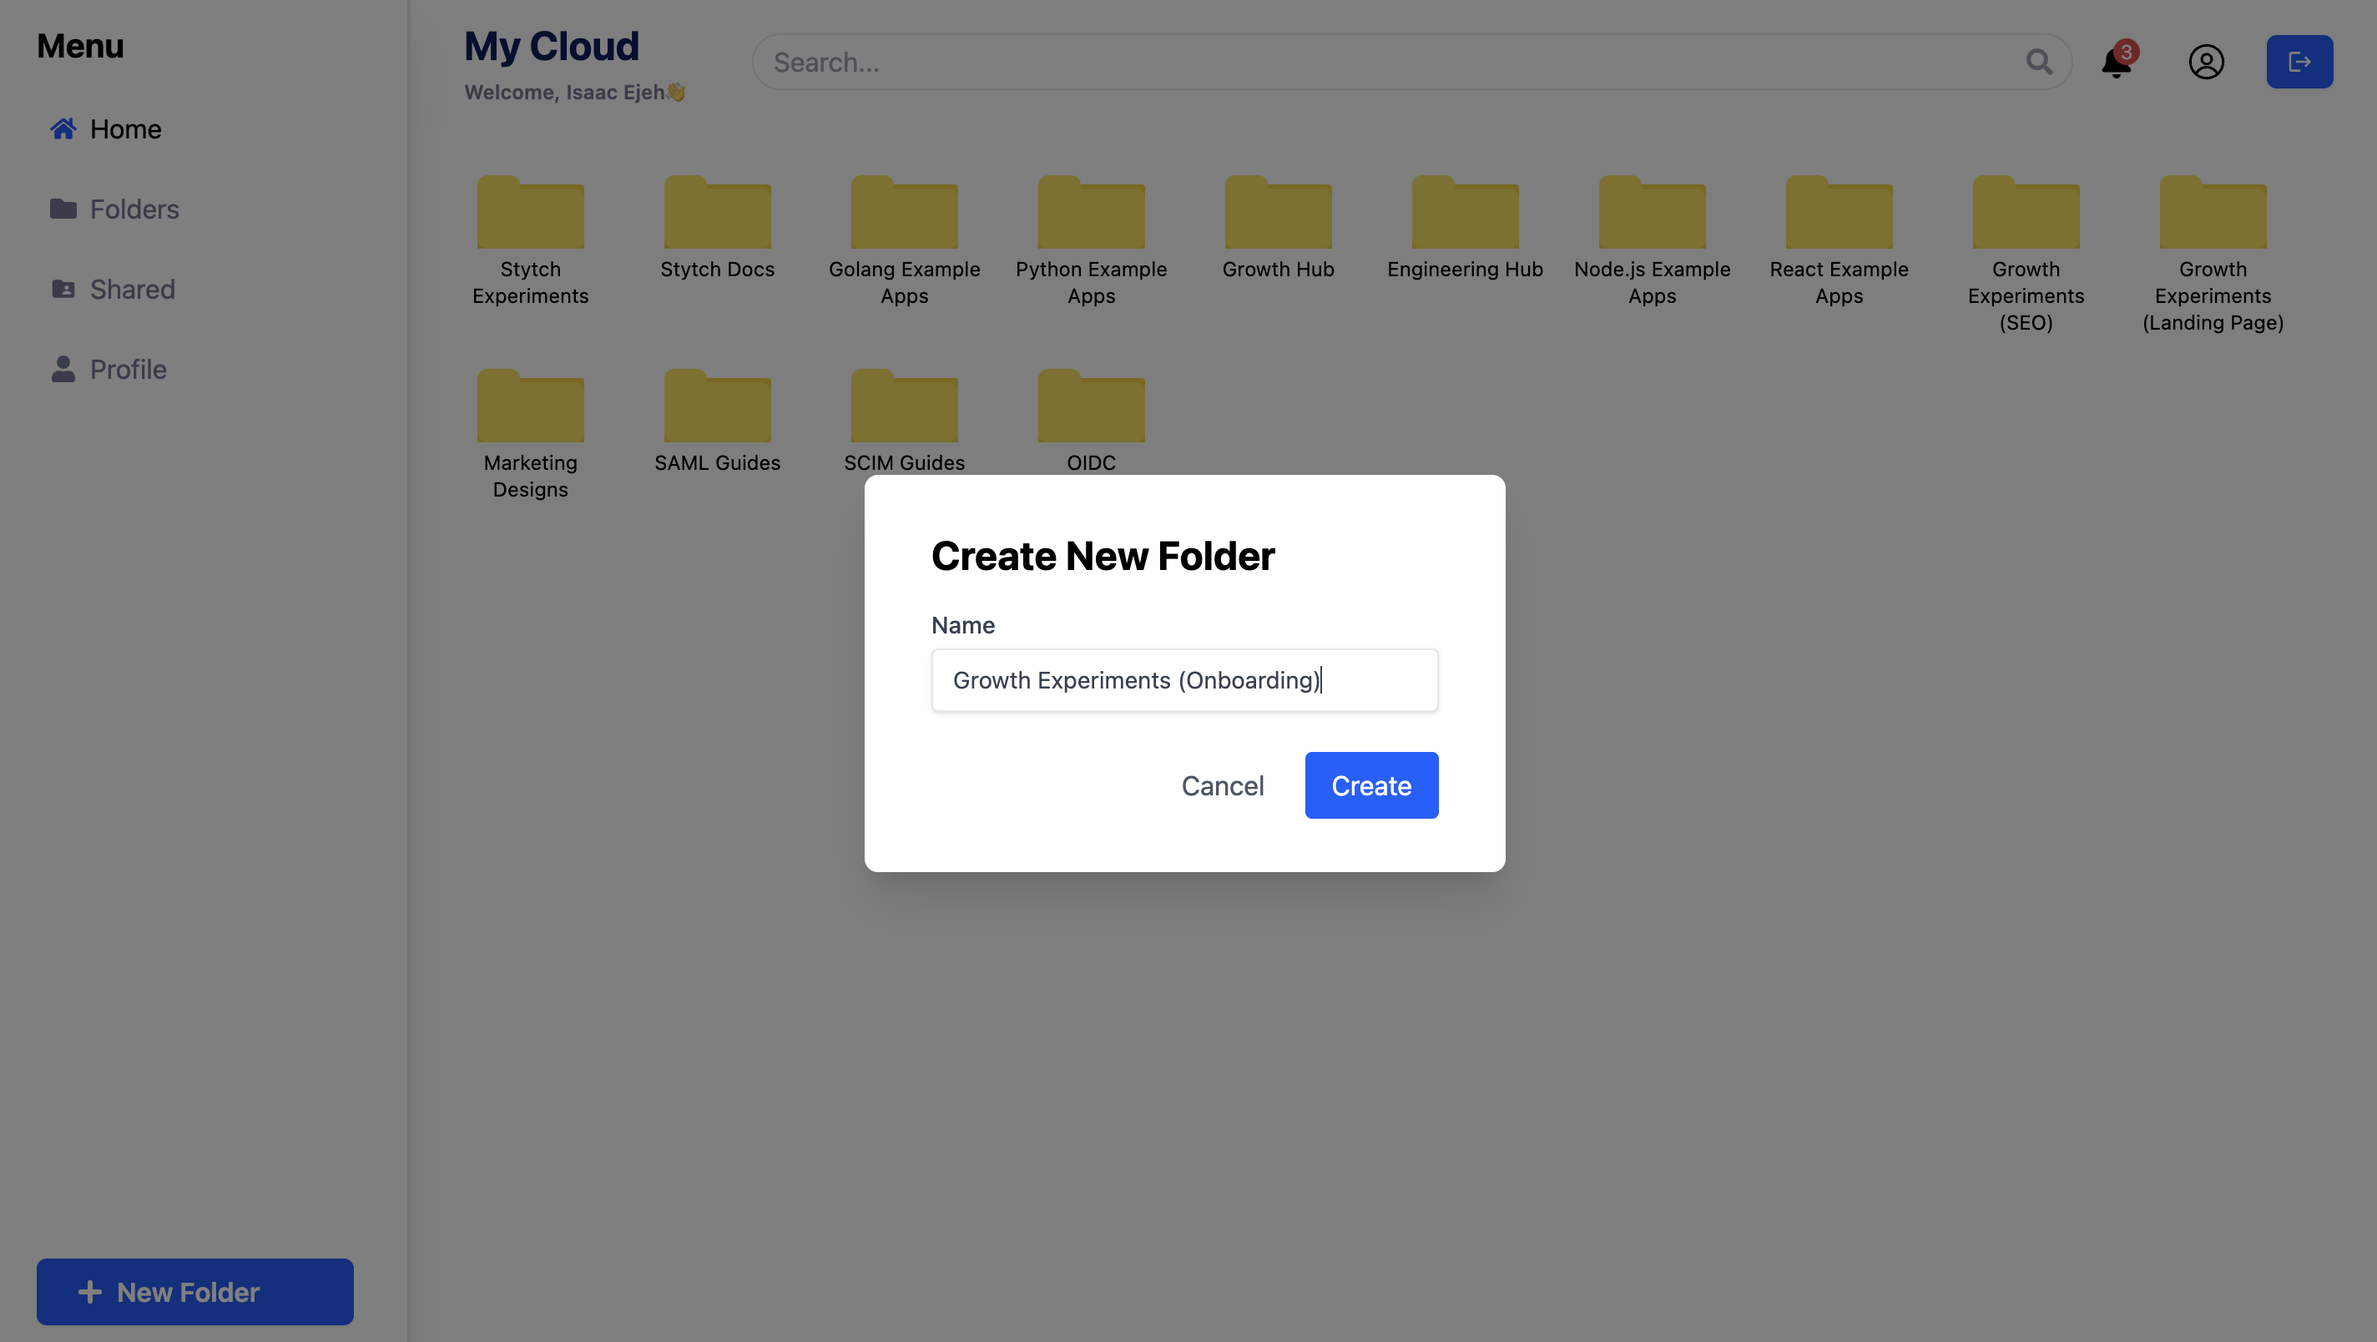
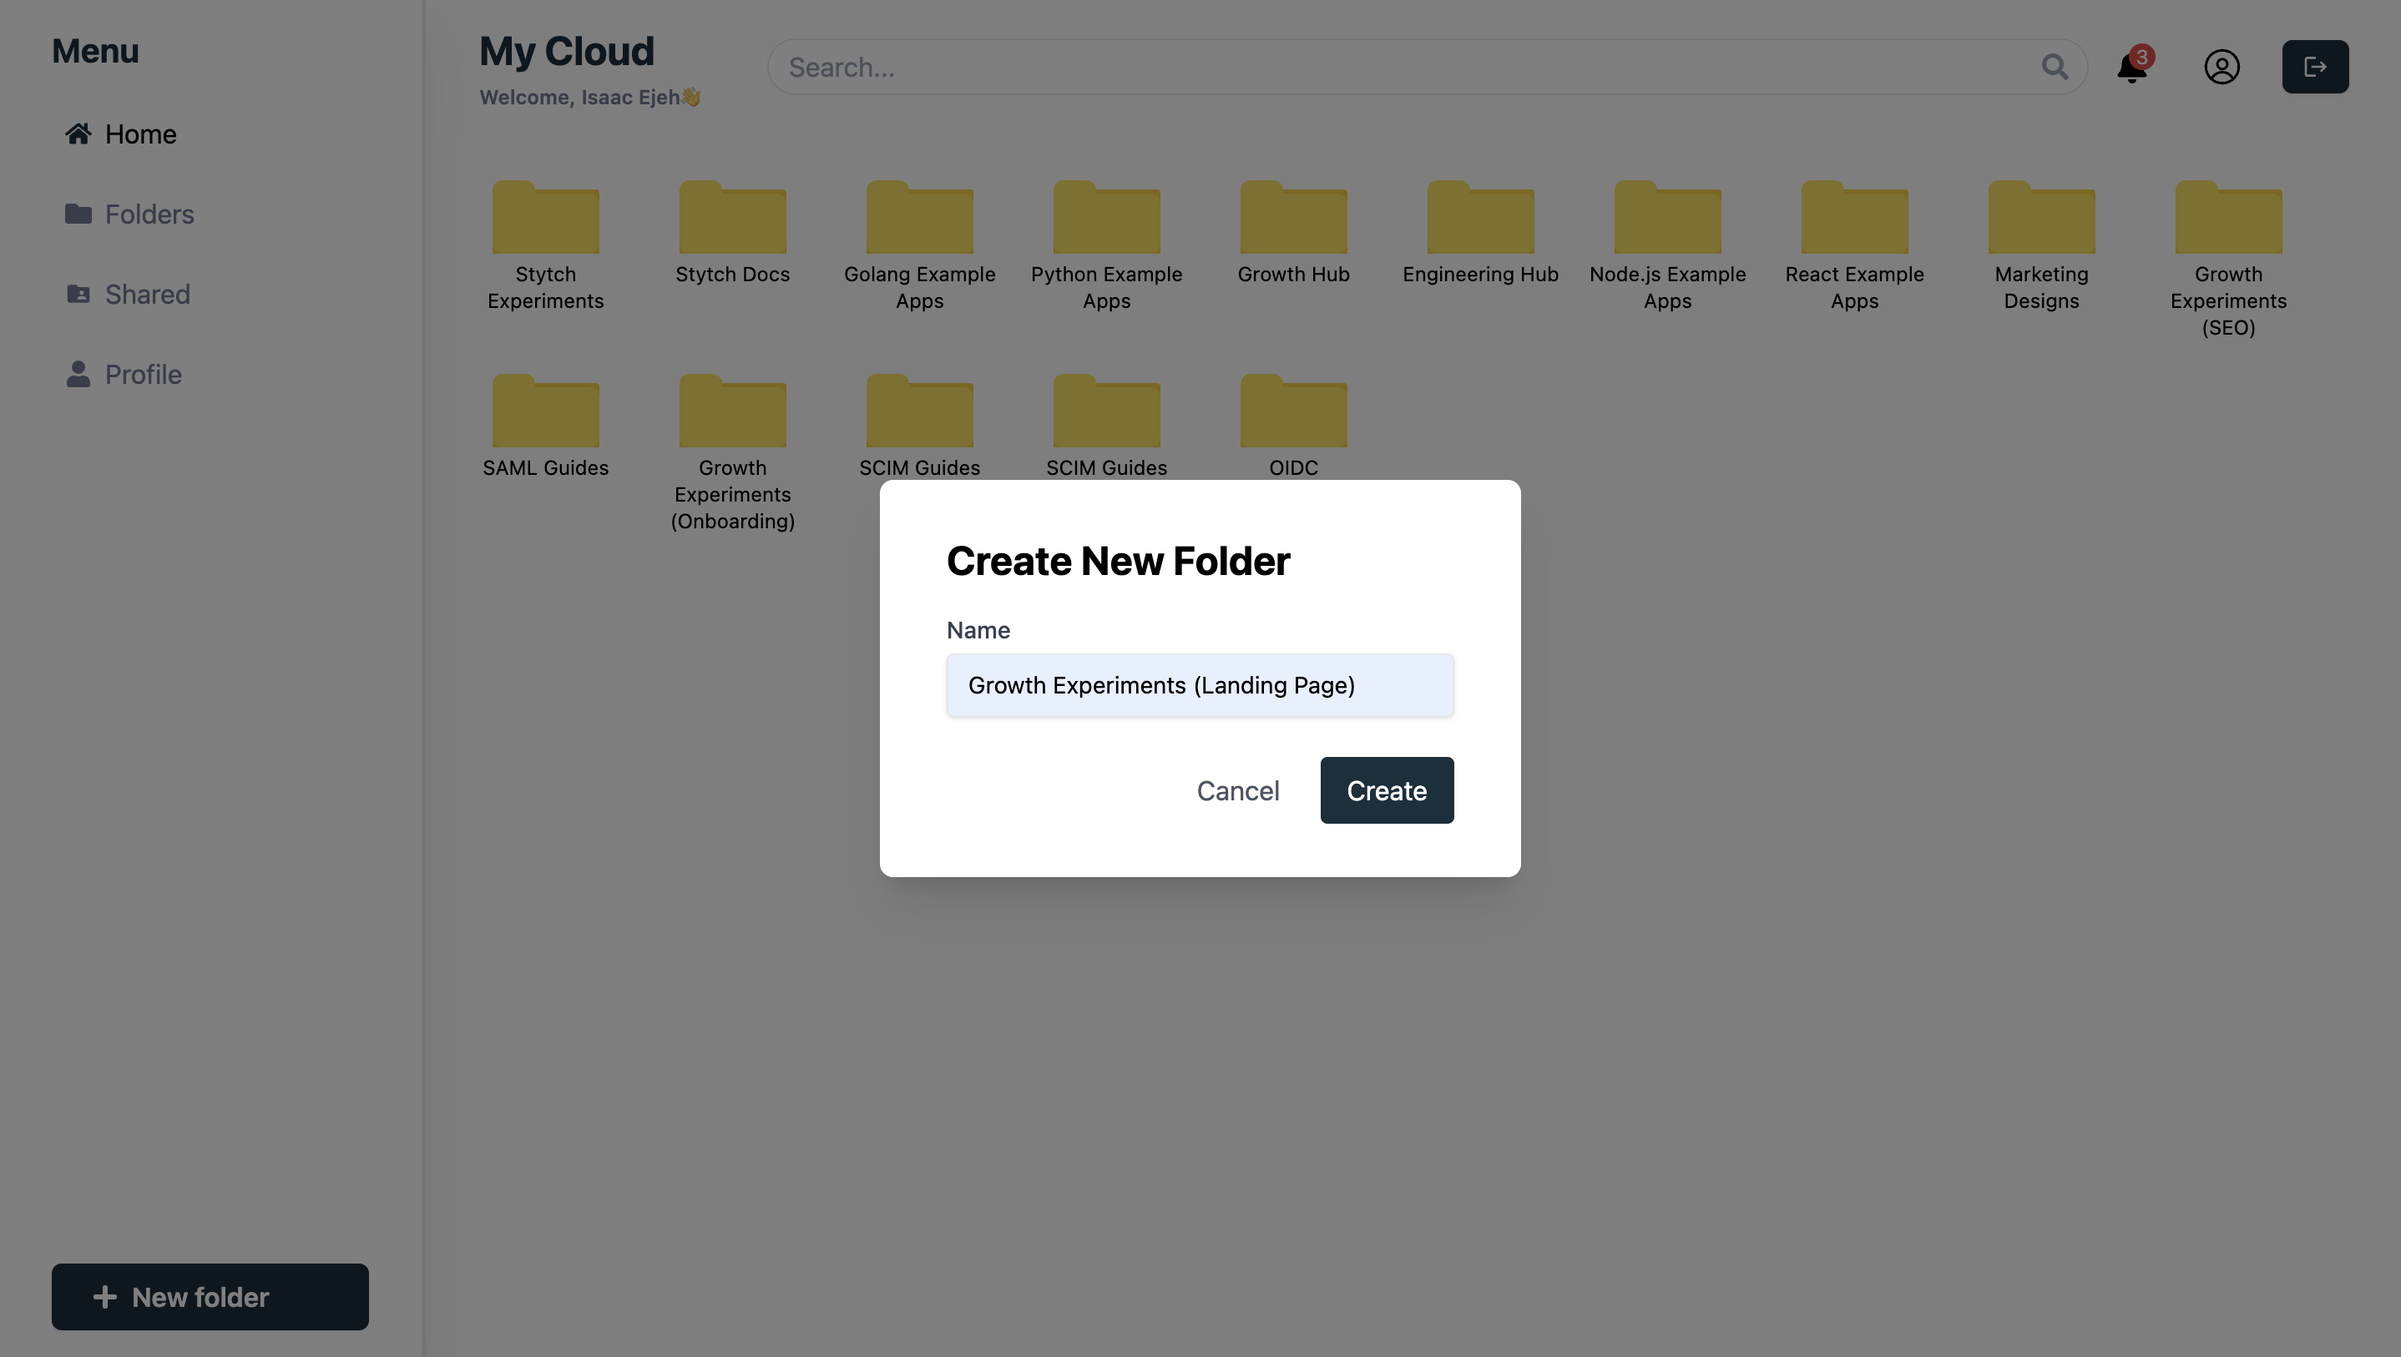
Added a landing page, seprated sign up and sign pages, and made color changes to buttons

diff --git a/client/src/pages/LandingPage.tsx b/client/src/pages/LandingPage.tsx
@@ -1,0 +1,35 @@
+import { Link } from "react-router-dom";
+import { AuthNavbar } from "../components";
+
+export default function LandingPage() {
+  return (
+    <div>
+        <AuthNavbar>
+            <div className="flex items-center justify-between gap-4">
+                <Link to={'/signin'}>
+                    <button className=" mt-auto px-2 w-fit py-1 text[#19303d] font-medium hover:text-[#0fe5c0] hover:font-medium transition duration-300 ease-in-out flex items-center justify-center">
+                        Sign In
+                    </button>
+                </Link>
+                <Link to={'/signup'}>
+                    <button className=" mt-auto px-6 py-2 bg-[#19303d] text-white font-normal rounded-md shadow-sm hover:bg-[#0fe5c0] transition duration-300 ease-in-out flex items-center justify-center">
+                        Sign Up
+                    </button>
+                </Link>
+            </div>
+        </AuthNavbar>
+        <section className="mx-36 my-8">
+            <div className="text-center pt-20">
+                <h1 className="text-5xl font-medium text-[#19303d] my-4 leading-tight">Busy work happens everywhere, but productive work happens in one shared Cloud</h1>
+                <p className="text-xl font-light text-[#19303d] mx-6 leading-snug mt-6">Centralize all your docs, files, to-dos, discussions, and folders in the same shared space where everyone can access them. You don't have to download and share everything, every day!</p>
+            </div>
+        </section>
+        <section className="my-8 mx-20 border-8 border-[#1e3542] rounded-lg bg-[#1e3542]">
+            <img src="/home.png" alt="hero image" width={'100%'} className="rounded-lg"/>
+        </section>
+        <footer className="mt-auto w-full border-t border-[#dbe2e6] px-6 py-2 text-center">
+            &copy; 2024 My Cloud. All Rights Reserved.
+        </footer>
+    </div>
+  )
+}

diff --git a/client/src/pages/SignUp.tsx b/client/src/pages/SignUp.tsx
@@ -1,0 +1,50 @@
+import { StytchB2B, useStytchMemberSession } from "@stytch/react/b2b";
+import { AuthFlowType, B2BProducts, StytchB2BUIConfig } from "@stytch/vanilla-js";
+import { Link, useNavigate } from "react-router-dom";
+import { useEffect } from "react";
+import { AuthNavbar } from "../components";
+
+export const SignUp = () => {
+  const { session, fromCache } = useStytchMemberSession();
+  const navigate = useNavigate();
+
+  useEffect(() => {
+    if (session && fromCache) {
+      navigate("/");
+    }
+  }, [fromCache, session, navigate]);
+
+  const config: StytchB2BUIConfig = {
+      products: [B2BProducts.emailMagicLinks],
+      emailMagicLinksOptions: {
+        discoveryRedirectURL: `${window.location.origin}/authenticate`
+      },
+      sessionOptions: { sessionDurationMinutes: 60 },
+      authFlowType: AuthFlowType.Discovery,
+  };
+
+  const style = {
+    hideHeaderText: true,
+  };
+  
+    return (
+    <div>
+        <AuthNavbar>
+          <Link to={'/signin'}>
+            <button className=" mt-auto px-7 py-2 bg-[#19303d] text-white font-normal rounded-md shadow-sm hover:bg-[#0fe5c0] transition duration-300 ease-in-out flex items-center justify-between">
+                Sign In
+            </button>
+          </Link>
+        </AuthNavbar>
+        <div className="flex items-center justify-center h-screen">
+            <div>
+              <h2 className="text-center text-3xl font-bold text-[#19303d] mb-6">Sign Up</h2>
+              <StytchB2B config={config} styles={style} />
+            </div>
+        </div>
+        <footer className="mt-auto w-full border-t border-[#dbe2e6] px-6 py-2 text-center">
+            &copy; 2024 My Cloud. All Rights Reserved.
+        </footer>
+    </div>
+    );
+};

diff --git a/client/src/pages/SignIn.tsx b/client/src/pages/SignIn.tsx
@@ -1,0 +1,50 @@
+import { StytchB2B, useStytchMemberSession } from "@stytch/react/b2b";
+import { AuthFlowType, B2BProducts, StytchB2BUIConfig } from "@stytch/vanilla-js";
+import { Link, useNavigate } from "react-router-dom";
+import { useEffect } from "react";
+import { AuthNavbar } from "../components";
+
+export const SignIn = () => {
+  const { session, fromCache } = useStytchMemberSession();
+  const navigate = useNavigate();
+
+  useEffect(() => {
+    if (session && fromCache) {
+      navigate("/");
+    }
+  }, [fromCache, session, navigate]);
+
+  const config: StytchB2BUIConfig = {
+      products: [B2BProducts.emailMagicLinks],
+      emailMagicLinksOptions: {
+        discoveryRedirectURL: `${window.location.origin}/authenticate`
+      },
+      sessionOptions: { sessionDurationMinutes: 60 },
+      authFlowType: AuthFlowType.Discovery,
+  };
+
+  const style = {
+    hideHeaderText: true
+  };
+  
+    return (
+    <div>
+        <AuthNavbar>
+          <Link to={'/signup'}>
+            <button className=" mt-auto px-6 py-2 bg-[#19303d] text-white font-normal rounded-md shadow-sm hover:bg-[#0fe5c0] transition duration-300 ease-in-out flex items-center justify-between">
+                Sign Up
+            </button>
+          </Link>
+        </AuthNavbar>
+        <div className="flex items-center justify-center h-screen">
+            <div>
+              <h2 className="text-center text-3xl font-bold text-[#19303d] mb-6">Sign In</h2>
+              <StytchB2B config={config} styles={style} />
+            </div>
+        </div>
+        <footer className="mt-auto w-full border-t border-[#dbe2e6] px-6 py-2 text-center">
+            &copy; 2024 My Cloud. All Rights Reserved.
+        </footer>
+    </div>
+    );
+};

diff --git a/client/src/pages/Home.tsx b/client/src/pages/Home.tsx
@@ -36,15 +36,15 @@ export const Home = () => {
               <FcOpenedFolder className='text-[7rem]'/>
             </div>
             <div className='text-center'>
-              <p className='text-[1rem] text-[#757897] font-normal leading-5'>Folders let you keep your docs organized in one place.</p>
-              <p className='text-[1rem] text-[#757897] font-normal'>All your folders will be listed here</p>
-              <div className='flex items-center justify-center gap-4 mt-5'>
+              <p className='text-[1rem] text-[#757897] font-medium leading-5'>Folders let you keep your docs organized in one place.</p>
+              <p className='text-[1rem] text-[#757897] font-medium'>All your folders will be listed here</p>
+              <div className='flex items-center gap-4 mt-5'>
                 <button className="flex items-center mt-auto px-6 py-2  text-[#757897] border font-semibold rounded-md shadow-sm transition duration-300 ease-in-out">
                   Sample folder
                 </button>
                 <button 
                   onClick={openModal} 
-                  className="flex items-center mt-auto px-6 py-2 bg-[#0061FF] text-white font-semibold rounded-md shadow-sm hover:bg-blue-700 transition duration-300 ease-in-out"
+                  className="flex items-center mt-auto px-6 py-2 bg-[#19303d] text-white font-semibold rounded-md shadow-sm hover:bg-[#0fe5c0] transition duration-300 ease-in-out"
                 >
                   Create a folder
                 </button>

diff --git a/client/src/components/custom/SideNav.tsx b/client/src/components/custom/SideNav.tsx
@@ -10,11 +10,11 @@ export const SideNav = () => {
     <div className="fixed border-r-2 h-full w-64 bg-white shadow-xl">
       <div className="py-4 px-8 h-full flex flex-col justify-between">
         <div>
-          <h2 className="text-xl font-bold mb-4">Menu</h2>
+          <h2 className="text-xl font-bold mb-4 text-[#19303d]">Menu</h2>
           <ul className="space-y-2">
             <li>
               <Link to="/" className="flex items-center p-2 hover:bg-gray-100 rounded">
-                <FaHome className="mr-2 text-[#0061FF]" />
+                <FaHome className="mr-2 text-[#19303d]" />
                 Home
               </Link>
             </li>
@@ -40,10 +40,10 @@ export const SideNav = () => {
         </div>
         <button 
           onClick={openModal} 
-          className="flex items-center mt-auto px-6 py-2 bg-[#0061FF] text-white font-semibold rounded-md shadow-sm hover:bg-blue-700 transition duration-300 ease-in-out"
+          className="flex items-center mt-auto px-6 py-2 bg-[#19303d] text-white font-semibold rounded-md shadow-sm hover:bg-[#0fe5c0] transition duration-300 ease-in-out"
         >
           <FaPlus className="mr-2" />
-          New Folder
+          New folder
         </button>
       </div>
     </div>

diff --git a/client/src/App.tsx b/client/src/App.tsx
@@ -1,12 +1,15 @@
 import { Route, Routes } from "react-router-dom"
 import { ContextProvider } from "./context/ContextProvider";
-import { Authenticate, Home, LoginOrSignup, NotFound, Register } from "./pages";
+import { Authenticate, Home, SignIn, NotFound, Register, SignUp } from "./pages";
 import { Layout, Modal, ProtectedRoutes } from "./components";
+import LandingPage from "./pages/LandingPage";
 
 // Route constants
 const ROUTES = {
-  HOME: '/',
-  LOGIN: '/login',
+  LANDINGPAGE: '/',
+  HOME: '/home',
+  LOGIN: '/signin',
+  SIGNUP: '/signup',
   AUTHENTICATE: '/authenticate',
   REGISTER: '/register'
 };
@@ -17,7 +20,9 @@ function App() {
     <ContextProvider>
       <div className="relative">
         <Routes>
-          <Route path={ROUTES.LOGIN} element={<LoginOrSignup/>}/>
+          <Route path={ROUTES.LANDINGPAGE} element={<LandingPage/>}/>
+          <Route path={ROUTES.LOGIN} element={<SignIn/>}/>
+          <Route path={ROUTES.SIGNUP} element={<SignUp/>}/> 
           <Route path={ROUTES.AUTHENTICATE} element={<Authenticate/>}/>
           <Route element={<ProtectedRoutes/>}>
             <Route path={ROUTES.REGISTER} element={<Register/>}/>

diff --git a/client/src/pages/NotFound.tsx b/client/src/pages/NotFound.tsx
@@ -4,14 +4,14 @@ export const NotFound = () => {
     return (
         <div className="min-h-screen bg-gray-100 flex flex-col justify-center items-center px-4">
           <div className="max-w-lg w-full text-center">
-            <h1 className="text-9xl font-bold text-blue-600">404</h1>
+            <h1 className="text-9xl font-bold text-[#19303d]">404</h1>
             <p className="text-4xl font-medium text-gray-800 mt-8">Page Not Found</p>
             <p className="text-xl text-gray-600 mt-4">
               Oops! The page you're looking for doesn't exist or has been moved.
             </p>
             <Link 
-              to="/" 
-              className="mt-8 inline-block px-6 py-3 bg-blue-600 text-white font-semibold rounded-lg shadow-md hover:bg-blue-700 transition duration-300 ease-in-out"
+              to="/home" 
+              className="mt-8 inline-block px-6 py-3 bg-[#19303d] text-white font-semibold rounded-lg shadow-md hover:bg-[#0fe5c0] transition duration-300 ease-in-out"
             >
               Go Back Home
             </Link>

diff --git a/client/src/components/custom/Navbar.tsx b/client/src/components/custom/Navbar.tsx
@@ -17,7 +17,7 @@ export const Navbar = () => {
   return (
     <nav className="flex justify-between items-center h-20 py-2 px-8 bg-[#fcfcfc] shadow-lg">
       <div className="mr-6">
-        <h1 className="text-2xl font-bold text-[#051F61] mb-1">My Cloud</h1>
+        <h1 className="text-2xl font-bold text-[#19303d] mb-1">My Cloud</h1>
         <p className="text-xs text-[#757897] font-semibold capitalize">Welcome, {user?.name}👋</p>
       </div>
       <div className="flex-grow mx-4">
@@ -42,7 +42,7 @@ export const Navbar = () => {
             <RxAvatar className="text-2xl" />
         </div>
         <button 
-            className="px-3 py-2 bg-[#0061FF] text-white font-semibold rounded-md shadow-sm hover:bg-blue-700 transition duration-300 ease-in-out"
+            className="px-3 py-2 bg-[#19303d] text-white font-semibold rounded-md shadow-sm hover:bg-[#0fe5c0] transition duration-300 ease-in-out"
             onClick={logOut}
         >
           <MdLogout />

diff --git a/client/src/pages/Register.tsx b/client/src/pages/Register.tsx
@@ -30,7 +30,7 @@ export const Register = () => {
       }
       const result = await response.json();
       updateUser(result.user);
-      navigate("/")
+      navigate("/home")
     } catch (error) {
       console.error((error as Error).message);
     }
@@ -89,7 +89,7 @@ export const Register = () => {
           </div>
           <button
             type="submit"
-            className="w-full flex justify-center py-2 px-4 border border-transparent rounded-md shadow-sm text-sm font-medium text-white bg-indigo-600 hover:bg-indigo-700 focus:outline-none focus:ring-2 focus:ring-offset-2 focus:ring-indigo-500"
+            className="w-full flex justify-center py-2 px-4 border border-transparent rounded-md shadow-sm text-sm font-medium text-white bg-[#19303d] hover:bg-[#0fe5c0] focus:outline-none focus:ring-2 focus:ring-offset-2 focus:ring-indigo-500"
           >
             Update
           </button>

diff --git a/client/src/components/custom/AuthNavbar.tsx b/client/src/components/custom/AuthNavbar.tsx
@@ -1,0 +1,19 @@
+import { ReactNode } from "react";
+import { Link } from "react-router-dom";
+
+
+export function AuthNavbar({children}: {children: ReactNode}) {
+  return (
+    <nav className="fixed top-0 left-0 right-0 flex items-center justify-between bg-white border-b border-[#dbe2e6] py-3 px-6">
+           <Link to={'/'}>
+                <span className="flex items-center">
+                    <img src="./Stytch_Logo.png" alt="Stytch logo" height={'30rem'} width={'30rem'}/>
+                    <h1 className="text-2xl font-bold text-[#19303d] mb-1 ml-4">My Cloud</h1>
+                </span>
+           </Link>
+            <div className="flex items-center justify-between gap-4">
+               {children}
+            </div>
+        </nav>
+  )
+}

diff --git a/client/src/components/common/Modal.tsx b/client/src/components/common/Modal.tsx
@@ -65,7 +65,7 @@ export const Modal: React.FC = () => {
                         </button>
                         <button
                             type="submit"
-                            className="px-4 py-2 bg-[#0061FF] text-white rounded hover:bg-blue-700 transition duration-300 ease-in-out"
+                            className="px-4 py-2 bg-[#19303d] text-white rounded hover:bg-[#0fe5c0] transition duration-300 ease-in-out"
                         >
                             Create
                         </button>

diff --git a/client/src/components/layout/ProtectedRoutes.tsx b/client/src/components/layout/ProtectedRoutes.tsx
@@ -1,4 +1,4 @@
- import {useStytchMemberSession} from '@stytch/react/b2b'
+import {useStytchMemberSession} from '@stytch/react/b2b'
 import { useEffect } from 'react';
 import { Navigate, Outlet, useNavigate } from 'react-router-dom';
 
@@ -13,5 +13,5 @@ export const ProtectedRoutes = () => {
       }
     }, [fromCache, session, navigate]);
   
-    return session ? <Outlet /> : <Navigate to="/login" />;
+    return session ? <Outlet /> : <Navigate to="/signup" />;
 }
